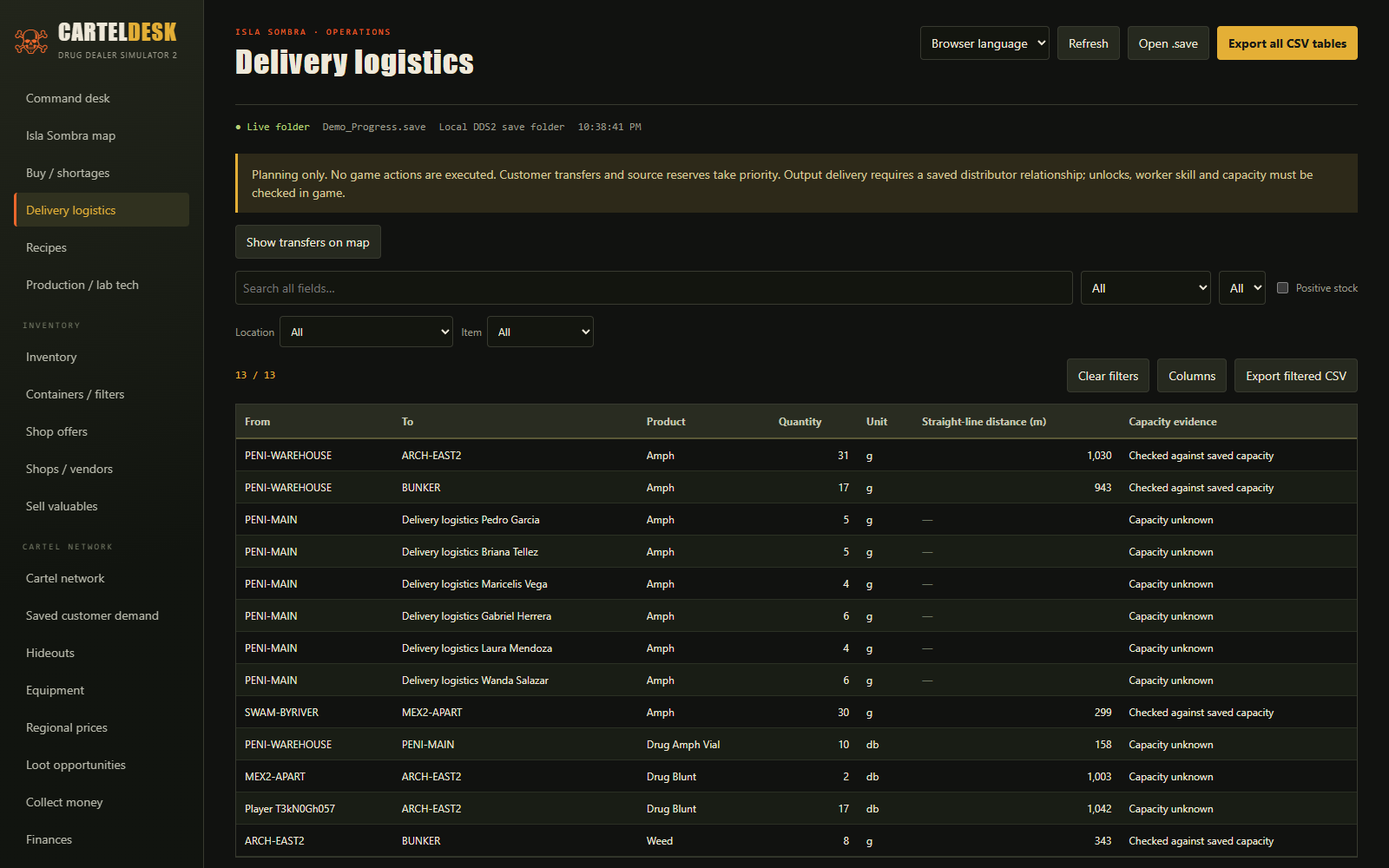
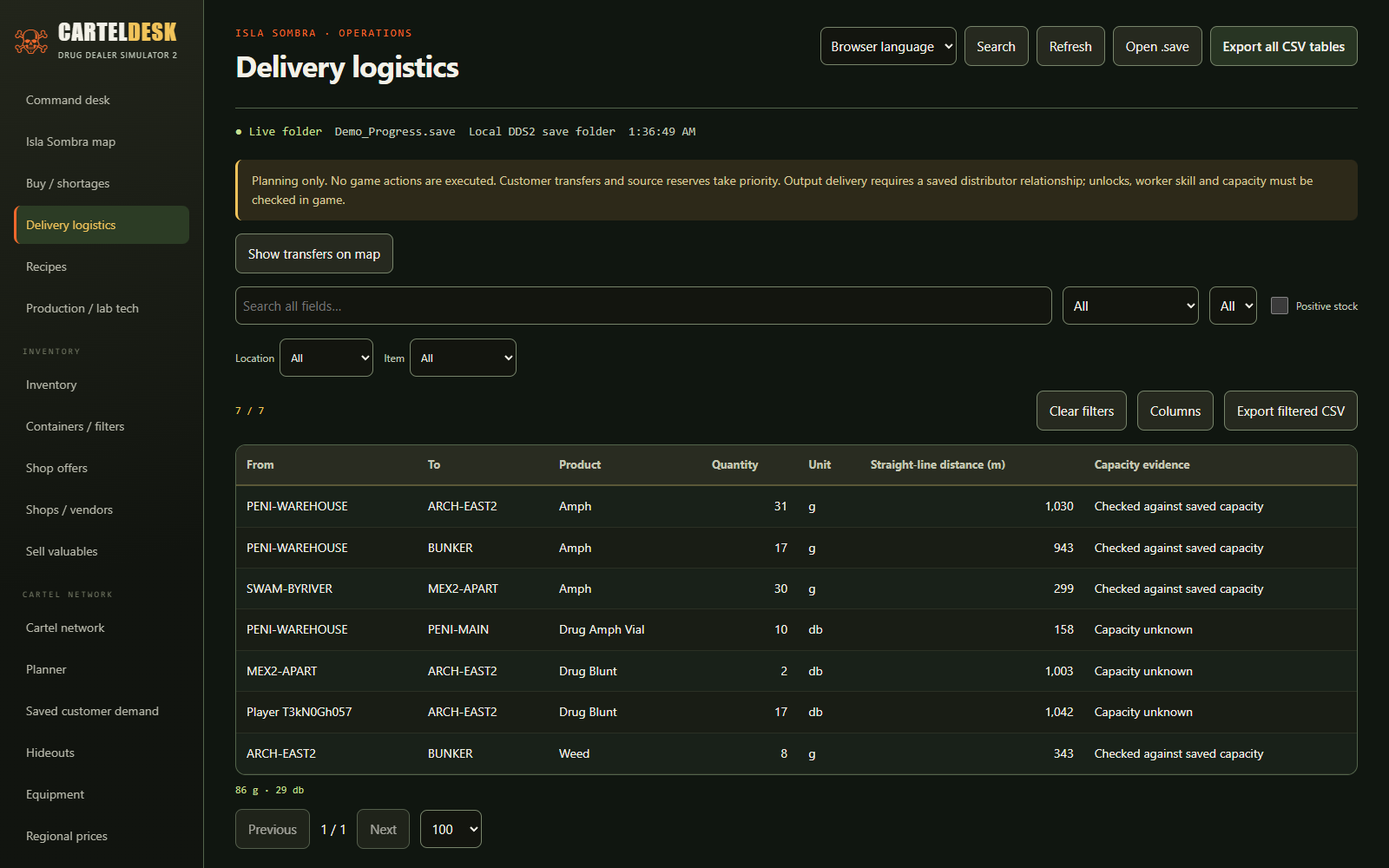
Release DDS2 CartelDesk v1.1.0

diff --git a/README.md b/README.md
@@ -1,130 +1,104 @@
 # DDS2 CartelDesk
 
-![DDS2 CartelDesk — Windows desktop and phone companion](media/cover-wide.png)
+![DDS2 CartelDesk — desktop and phone companion](media/cover-wide.png)
 
-**Your local planning desk for Drug Dealer Simulator 2.** Read your save, check ingredients and equipment, organise stock transfers, and keep the same tools beside you on your phone.
+A free, unofficial Windows planning desk for Drug Dealer Simulator 2. Read your campaign, find ingredients and equipment, organise stock and routes, and open the same tools on your phone.
 
-[**Download for Windows x64**](https://github.com/acsokis/DDS2-CartelDesk/releases/latest) · [Screenshots](#screenshots) · [Media & post kit](#media--post-kit) · [Report an issue](https://github.com/acsokis/DDS2-CartelDesk/issues)
+**[Download the latest Windows release](https://github.com/acsokis/DDS2-CartelDesk/releases/latest)** · [Screenshots and posting material](media/README.md)
 
-## Get started
+Only the latest release is public. This repository distributes the application and media; the application's source code remains private.
 
-1. Download **DDS2-CartelDesk-v1.0.1-Windows-x64.zip** from Releases.
-2. Extract the entire ZIP into a writable folder. Keep its runtime, web and licenses folders together. CartelDesk.exe is the only executable in the top-level folder; DLLs and the backend are grouped in runtime/.
-3. Open **CartelDesk.exe**. The native window starts its own local server.
-4. Use **Start / Stop** to control the server. Closing the window stops its server.
+## Start on Windows
 
-Designed for Windows 11 x64. No installation, command window, Node.js, Python or separate Qt installation is required. The application is a separate planning tool; it does not execute game actions.
+1. Extract the complete Windows x64 ZIP into a writable folder.
+2. Start **CartelDesk.exe**. The window manages its own background service with Start and Stop; closing it also stops its service.
+3. Select your DDS2 cartel folder or choose an individual Progress save. The normal location is under LocalAppData/DrugDealerSimulator2/Saved/SaveGames/Cartels.
+4. Keep the companion open while playing, then refresh after the game finishes saving.
 
-The default save folder is:
+The release root contains the launcher, README, configuration and optional network helper. Qt and native libraries stay in **runtime/**; web assets in **web/**; notices and corresponding Qt source archives in **licenses/**. Keep these folders beside the launcher.
 
-`%LOCALAPPDATA%\DrugDealerSimulator2\Saved\SaveGames\Cartels`
+Game saves and sidecar files are read only. There is no automatic campaign import or overwrite.
 
-CartelDesk finds the latest cartel folder. Choose another folder or .save in Settings. Game saves are **read-only**. Plans and preferences are stored separately in config.json and desktop.ini.
+## Desktop and phone
+
+The C17 service parses and plans locally; the C++ desktop uses Qt Quick navigation and Operations views alongside native Widgets. The localhost web UI and portrait companion use the same saved facts.
+
+For a phone, enable private-LAN companion mode, start the service and select the Wi-Fi IPv4 address in Command Desk. Scan its QR code; click it to open a larger, resizable QR window. The phone and PC must be on the same local network. Windows may require the supplied ENABLE_COMPANION_NETWORK.ps1 helper for its private-network firewall rule.
+
+Responsive layouts keep text sharp as windows resize. Motion is optional and the browser's reduced-motion preference is respected. The phone layout is intended for modern portrait displays, including Galaxy S22 Ultra class screens. A physical phone has not yet been verified.
+
+The browser language is the initial web preference and the system language is the desktop default. English, German, Spanish, French, Hungarian, Polish, Ukrainian, Russian, Czech, Serbian and Croatian are available.
 
 ## What you can do
 
-| Feature | Behaviour |
+| Area | Saved facts and controls |
 | --- | --- |
-| Native desktop | Qt 6.12 Widgets window, managed Start / Stop, searchable tables and settings |
-| Recipes | 187 documented recipes with ingredients, saved production equipment and laboratory workstations |
-| Production planning | Reserve customer demand first, allocate stock once, calculate missing materials and share saved storage capacity |
-| Logistics | Saved distributor assignments, transfers, orders and straight-line distance estimates |
-| Game map | Isla Sombra map with discovery-based fog-of-war, known locations and ingredient lookup |
-| Phone companion | Portrait web interface with the same save data, recipes, map and plans |
-| Export | Filtered CSV and all-table CSV ZIP |
-| Languages | English, German, Spanish, French, Hungarian, Polish, Ukrainian, Russian, Czech, Serbian and Croatian |
+| Operations | Loaded campaign, recorded money in Bolivars (B), own stock, missing requirements and transfers |
+| Inventory | Items, substances, equipment, quantities and distinct installed, collection, player, staff and stored contexts |
+| Cartel Network | Saved hideouts, distributor desks, distributors, dealers, workers and assignments; missing or conflicting links stay unresolved |
+| Recipes | Recorded ingredients and quantities, available equipment alternatives and scaled batches; unknown requirements stay unknown |
+| Planner | Acquire, store, produce and transport; recorded prices, quantities, capacities and straight-line distances |
+| Planning lists | Add, edit quantities, remove, filter, save/load/delete named lists and mark favorites |
+| Map | Game map, persistent legend and counts, stock/source search, layers, Locate, optional routes and reference ranges |
+| External pings | Red triangles, sets, batch additions, multi-select deletion, seconds-based expiry and manual route stops |
+| Save Inspector | Technical IDs, complete tables, parser metadata, search, filters and CSV/ZIP exports |
 
-Desktop language follows the system; web language follows the browser. The language menu overrides automatic selection.
+**Owned inventory and Acquisition sources are separate.** Finding no owned ethanol does not end the supplier search. Recipe requirements show known vendors, storage contexts and coordinates independently of your own quantity. Recorded coverage does not promise unreserved stock. Quantities in incompatible units are never summed.
 
-## Phone companion
+The current planning list is separate from saved named lists and production targets. Add a recipe's ingredients and non-alternative tools to the draft, edit amounts or mark them unknown, then save a named list. Choose alternative equipment individually. Reset clears the draft and planner filters while retaining named lists; each production plan can be removed separately.
 
-Enable **phone companion on LAN** in the native window. Connect your phone to the same Wi-Fi as the PC and open the private-IP **/companion** address shown in the window. The desktop web interface is also available at http://127.0.0.1:8765.
+## Actual game exploration
 
-The phone uses the PC's displayed IP address: localhost on the phone refers to the phone itself. Keep the PC application running. The portrait interface targets modern high-resolution phones such as the Galaxy S22 Ultra.
+Terrain fog uses **FOW_Target.exr from the selected cartel folder**. Its HALF RGB channels contain the exploration mask; constant alpha is ignored. The previous circle, bridge and hull estimate has been removed from both desktop and web.
 
-If Windows blocks incoming connections, run the optional **ENABLE_COMPANION_NETWORK.ps1** as administrator. It adds a private-network, local-subnet rule for port 8765. Public Internet clients are rejected; this is a local-network companion.
+If the file is missing, invalid or unsupported, the terrain stays covered and the interface explains why. The **Fog of war** checkbox can show the terrain without writing any game file. Turning it off does not unlock hidden inventory, recipes or unverified locations. An uploaded Progress save has no accompanying mask unless you select its local cartel folder.
 
-## Fog-of-war and data limits
+**Sharing exploration with LAN companions is optional and off by default.** Localhost and desktop can use the host's mask. A LAN client receives no mask while sharing is disabled. Known saved places still have useful markers. Use Reset map filters and layers if a search or an old layer preference hides results.
 
-Fog-of-war is enabled in the native app, desktop web and phone companion. It reveals neighbourhoods around places explicitly discovered or owned in the save. Undiscovered catalogue markers stay hidden, and a nearby known position does not unlock another marker.
+The three adjacent files serve different purposes: CartelDefaults.sav stores cartel configuration and assignments, CartelLocalData.sav stores local hints and favorite settings, and FOW_Target.exr is an image. They are not the LootPoolDatabase DataTable. The [wiki identifies LootPoolDatabase as a game DataTable source](https://drugdealersim.com/wiki/dds2/clothing-apparel); a campaign's dynamic loot state is different from the build's static loot definitions. Missing chances, quantities and prices stay unknown.
 
-The mask uses saved discovery flags and coordinates; it is **not the game's pixel exploration mask**. Unknown coordinates, prices, recipe yields and equipment compatibility remain unknown. Public shop/loot information describes possible locations, not current stock. Transfer lines are straight-line estimates, not verified road routes. Saved demand does not prove an active order.
+## External pings and manual routes
 
-## Companion QR and server lifecycle
+Open **External map pings**, create a set and choose a lifetime from **1 to 86400 seconds**. Add at the visible map centre, double-click to place a ping, or add up to 100 filtered markers at once. Filter by set, select one or multiple pings and remove them. The workspace supports 30 sets and 200 active pings.
 
-Enable companion access and start the service. In the upper-right companion card on the Command Desk tab, choose the local IP address of the adapter shared with your phone, then scan its QR code. Click the QR card to open a larger window and use the size slider; closing it leaves the card in its original place. The chosen address is remembered. The phone and PC must share a private network, and Windows Firewall must allow companion access. QR codes are generated locally, without sending the URL to an external service.
+Browsers and desktop connected to the **same running LAN host** share additions/removals and expiry with a two-second poll. For a separate host, explicitly export/import the ping JSON packet; imported pings retain only their remaining lifetime. Invalid batches are rejected before the workspace changes.
 
-The backend runs in the background while the desktop is open. Stop ends the owned server; closing the desktop also stops it. A parent-process watcher terminates the server if the desktop is forcibly terminated, even during an incomplete network request.
+Recipe and planner pages can show ping stops on their map. These are manual, straight-line routes and external annotations. They do not claim road navigation, owned inventory, available supplier stock or live player positions.
+
+Encrypted peer sessions, a live WebRTC delta stream and full-save transfer are **not yet connected to the released app UI**. Experimental transfer acceptance and recovery remain pending; this release never sends or replaces a campaign file.
 
 ## Screenshots
 
-These are actual application captures using demonstration save data. Local filesystem paths and adapter addresses have been removed from the presentation. The visible map remains behind fog-of-war.
+These are actual desktop, localhost and portrait captures from a demonstration campaign. Paths and adapter details are removed from the presentation.
 
-**Windows desktop**
+![Command Desk and companion QR](media/screenshots/desktop.png)
 
-![Native DDS2 CartelDesk window with Start and Stop](media/screenshots/desktop.png)
+![Native map with game exploration and visible markers](media/screenshots/desktop-map-detail.png)
 
-**Enlarged companion QR**
+![Web map and legend](media/screenshots/web-map.png)
 
-![Companion QR popup with size control and example LAN address](media/screenshots/desktop-qr.png)
+![External ping sets and manual route stops](media/screenshots/web-map-pings.png)
 
-**Recipes and equipment**
+![Planning list and separate acquisition sources](media/screenshots/web-planner-list.png)
 
-![Recipe ingredients, production equipment and planning controls](media/screenshots/web-recipes.png)
+<img src="media/screenshots/companion-map.png" width="280" alt="Portrait map with game exploration and legend"> <img src="media/screenshots/companion-planner-sources.png" width="280" alt="Portrait ingredient sourcing">
 
-**Discovery-based map**
+## Data, credits and limitations
 
-![Native map showing only saved known places](media/screenshots/desktop-map.png)
+**Map and reference data from drugdealersim.com** — [live wiki](https://drugdealersim.com/).
 
-**About and wiki credits**
+About and posting credit: **Map and data from drugdealersim.com**. Branding credit: **Sourced from drugdealersim.com**.
 
-![About view with wiki attribution and non-affiliation notice](media/screenshots/desktop-about.png)
+CartelDesk is not endorsed by or affiliated with drugdealersim.com, TGS, ByteRunners or Movie Games SA. Underlying game data belongs to the game's developers. Wiki permission covers its map render and curation; contributed guide prose is not bundled. References are an offline snapshot under review: use the live wiki for current values. Currency is Bolivars (B).
 
-**Phone companion**
+The icon is an original CartelDesk mark. Third-party and Qt notices, dynamic-linking information and corresponding source archives accompany the package. The application's own source is private.
 
-<p>
-<img src="media/screenshots/companion-overview.png" width="280" alt="Phone companion overview">
-<img src="media/screenshots/companion-recipes.png" width="280" alt="Phone recipe ingredients and equipment">
-<img src="media/screenshots/companion-map.png" width="280" alt="Phone map with fog-of-war">
-</p>
+By **Gábor Kocsis (acsokis)**: [GitHub](https://github.com/acsokis) · [Instagram](https://www.instagram.com/gabor_carter/) · [LinkedIn](https://www.linkedin.com/in/gabor-web/).
 
-## Media & post kit
+Development uses C17/C++17, an existing save parser, a bounded EXR decoder, responsive web views and local Windows/browser verification. AI-assisted implementation and review are described in About. Unknown game facts are never filled with guessed values.
 
-[Open the media kit](media/README.md) or download **DDS2-CartelDesk-v1.0.1-Media.zip** from [Releases](https://github.com/acsokis/DDS2-CartelDesk/releases/latest).
-
-It contains original screenshots, a 1200 × 675 wide cover, a 1080 × 1080 square cover, and ready-to-copy English posts for **Steam Discussions**, **LinkedIn**, and **Nexus Mods / Vortex**. These are posting drafts; they have not been posted to those platforms.
-
-For Nexus Mods, describe CartelDesk as a standalone utility and use manual download/extraction. The package is not a Vortex game extension or an automatic game-folder deployment mod.
-
-## Credits and source
-
-Created by **Gábor Kocsis (acsokis)** — [GitHub](https://github.com/acsokis) · [Instagram](https://www.instagram.com/gabor_carter/) · [LinkedIn](https://www.linkedin.com/in/gabor-web/).
-
-Built with a **C17 save parser**, **C++17 / Qt 6.12 Widgets**, and local **HTML/CSS/JavaScript** interfaces. AI coding assistance, Windows builds and regression checks supported development. Unofficial DDS2 companion; not affiliated with the game's creators.
-
-This repository publishes release information and media. **The application's C/C++ source and development files are not published.** The download includes the browser runtime assets needed by its web interfaces. GitHub's automatic “Source code” archives contain this public documentation repository, not the native application source.
-
-Qt is dynamically linked. The licenses folder includes its original license texts, SBOM and the corresponding unmodified Qt 6.12.0 source archive. That archive contains third-party Qt source, not CartelDesk's private source. Keep it and THIRD_PARTY_NOTICES.txt with the distribution.
-
-Game reference data: [Isla Sombra map](https://drugdealersim.com/map), [recipes](https://drugdealersim.com/wiki/dds2/crafting-recipes), [items](https://drugdealersim.com/wiki/dds2/all-items-catalog), [equipment](https://drugdealersim.com/wiki/dds2/hideout-equipment).
-
-## Validation
-
-37 automated Windows checks passed on Windows x64, including parser compatibility, stock allocation, capacity, read-only saves, Unicode, private-LAN access, 11 languages, recipe planning, fog-of-war markers, CSV ZIP integrity, and the real Qt Start / Stop lifecycle, normal/forced desktop closure during a partial HTTP request, and QR decoding from the actual card and enlarged images. Desktop web and portrait companion screenshots were also checked for JavaScript errors and horizontal overflow. Physical-phone touch testing has not been performed.
+The maintained design catalog contains **131 unique active acceptance points** plus shared constraints, after deduplicating historical requests. That count is a scope catalog, not a claim that every experimental multiplayer or recovery requirement is complete. Hardware-specific FPS, physical-phone, assistive-technology and full progression coverage remain pending.
 
 ## Magyar gyorsindítás
 
-Töltsd le a Windows ZIP-et, csomagold ki teljesen, és indítsd a **CartelDesk.exe** fájlt. A Start / Stop gomb vezérli a háttérszervert; az ablak bezárása leállítja. A program a valódi DDS2 mentési mappát keresi, és a játékmentést kizárólag olvassa. Telefonon ugyanazon a Wi-Fi-n az ablakban megjelenő /companion címet nyisd meg. A felületen magyar nyelv is választható.
-
-## Wiki attribution and updates
-
-[Map and reference data from drugdealersim.com](https://drugdealersim.com/)
-
-Map and data from drugdealersim.com
-
-Unofficial companion. Not endorsed by or affiliated with drugdealersim.com, TGS, ByteRunners or Movie Games SA.
-Reference data checked 2026-10-06; visit the live wiki for current data during its ongoing audit. Currency: Bolivars (B).
-
-The wiki operator permits bundling and screenshots of its map render and curation with attribution. This permission does not license the underlying game developer rights or contributed guide prose. No Steam-imported guide text is bundled. The reference snapshot is due for review on 2026-10-20; this is a planned maintenance date, not an automatic synchronization. If the wiki operator requests removal of its materials, those materials will be removed from the distribution.
-
-Official DDS2 icon: sourced from the [game’s Steam community page](https://steamcommunity.com/app/1708850/), used as the Windows application/browser icon and in the QR centre. QR codes use high error correction; both the displayed card and enlarged output are checked by decoding. The artwork belongs to its respective rights holders. Wiki permission covers its map and curation, not game artwork or underlying game IP; no endorsement is implied.
+Csomagold ki a teljes ZIP-et, és indítsd a **CartelDesk.exe** fájlt. A Start/Stop és az ablak bezárása kezeli a saját háttérszervert. Válaszd ki a kartell mappáját: a térképköd a **FOW_Target.exr** fájlból jön, kikapcsolható, LAN-megosztása külön opcionális. Telefonhoz engedélyezd a companion módot, válaszd a Wi-Fi IP-címet, és olvasd be a QR-kódot. A piros pingek azonos LAN-host alatt közösek; másik hosthoz JSON export/import van. A játékmentést a program kizárólag olvassa.

diff --git a/media/README.md b/media/README.md
@@ -1,53 +1,40 @@
-# DDS2 CartelDesk media kit
+# DDS2 CartelDesk media kit — v1.1.0
 
-[Download the application](https://github.com/acsokis/DDS2-CartelDesk/releases/latest) · [Project page](https://github.com/acsokis/DDS2-CartelDesk)
+[Download the latest Windows release](https://github.com/acsokis/DDS2-CartelDesk/releases/latest) · [Project](https://github.com/acsokis/DDS2-CartelDesk)
 
 ## Images
 
-| File | Size / purpose |
+| Image | Use |
 | --- | --- |
-| [cover-wide.png](cover-wide.png) | 1200 × 675; wide post, README cover or thumbnail |
-| [cover-square.png](cover-square.png) | 1080 × 1080; square social post |
-| [Desktop](screenshots/desktop.png) | 1240 × 850; native Start / Stop window |
-| [Companion QR](screenshots/desktop-qr.png) | Enlarged native QR dialog with size slider; example address |
-| [Inventory](screenshots/desktop-inventory.png) | 1240 × 850; native table |
-| [Native recipes](screenshots/desktop-recipes.png) | 1240 × 850; ingredients and equipment |
-| [Native About](screenshots/desktop-about.png) | 1240 × 850; credits and wiki attribution |
-| [Native map](screenshots/desktop-map.png) | 1240 × 850; fog-of-war |
-| [Desktop web recipes](screenshots/web-recipes.png) | 1600 × 1000; recipe catalogue |
-| [Web logistics](screenshots/web-logistics.png) | 1600 × 1000; stock-transfer planning |
-| [Web About](screenshots/web-about.png) | 1600 × 1000; build description and source credits |
-| [Phone overview](screenshots/companion-overview.png) | 1075 × 2330; portrait companion |
-| [Phone recipes](screenshots/companion-recipes.png) | 1075 × 2330; recipe detail |
-| [Phone map](screenshots/companion-map.png) | 1075 × 2330; discovery-based map |
-| [Phone About](screenshots/companion-about.png) | 1075 × 2330; companion source credits |
+| [Wide cover](cover-wide.png) | 1200 × 675 social post or README |
+| [Square cover](cover-square.png) | 1080 × 1080 social post |
+| [Desktop](screenshots/desktop.png) | Actual native command desk, Start / Stop and QR |
+| [Native map](screenshots/desktop-map-detail.png) | FOW_Target.exr terrain, markers and legend |
+| [Native ping controls](screenshots/desktop-ping-dialog.png) | Sets, lifetime, multi-selection, import / export |
+| [Web map and pings](screenshots/web-map-pings.png) | Red triangles, route stops and visible legend |
+| [Planner lists](screenshots/web-planner-list.png) | Save, load, favorites, quantities and removal |
+| [Acquisition sources](screenshots/web-planner-sources.png) | Ownership and purchase locations separately |
+| [Native recipes](screenshots/desktop-recipes.png) | Ingredients and production equipment |
+| [Phone map](screenshots/companion-map.png) | Portrait companion with game exploration mask |
+| [Phone recipes](screenshots/companion-recipes.png) | Recipe requirements on a portrait screen |
+| [About](screenshots/desktop-about.png) | Author and source credits |
 
-All screenshots are actual application captures using demonstration data. Public previews omit local filesystem paths and private adapter addresses. Map captures keep fog-of-war enabled. The cover images combine those screenshots with descriptive text; no game UI or functionality was invented.
+Screenshots capture the running application with an isolated demonstration profile. Covers compose these captures and descriptive text. Local save paths and private adapter addresses are omitted. The map uses the read-only game FOW_Target.exr mask. Missing masks keep the terrain covered; fog can be switched off in the view. Exploration sharing is optional and off by default.
 
+This update includes planner add / remove / save / favorites / reset, independent owned-inventory and acquisition-source filters, persistent map legend and empty states, cached native terrain and debounced filters. External red triangle pings have sets, multi-selection, 1–86400 second lifetimes and manual route stops. Devices using the same LAN host share pings; separate hosts use explicit JSON export / import.
 
 ## Ready-to-copy posts
 
-- [Steam Discussions](posts/steam-forum.txt): paste the title and body into the DDS2 community discussion editor. Attach the wide cover and recipe/map screenshots if the editor permits attachments.
-- [LinkedIn](posts/linkedin.txt): use the square or wide cover, optionally adding desktop and companion captures as a carousel.
-- [Nexus Mods / Vortex](posts/nexus-description.txt): standalone-utility description, installation and limitations. Upload screenshots to the image gallery and the Windows ZIP as a manual-download file. No Vortex extension or automatic deployment support is claimed.
+- [Steam Discussions](posts/steam-forum.txt): title and body, with map / recipe captures.
+- [LinkedIn](posts/linkedin.txt): short project description and cover or screenshot carousel.
+- [Nexus Mods / Vortex](posts/nexus-description.txt): standalone utility description and manual installation. No Vortex deployment extension is included.
 
-These are drafts for the author to post. No Steam, LinkedIn or Nexus post has been published automatically. Keep the game-only context, read-only save statement, unknown-data limitations, author credit and project download link when reposting. Do not present CartelDesk as an official DDS2 product.
+These drafts are for the author to post. Keep the read-only save statement, unknown-data limitations, credits and download link. Secure peer sessions, application live deltas, full-save transfer UI / recovery and production signing are pending. The private catalog has 131 unique requirements from 190 source points; this does not claim all requirements are complete. Physical-phone and game-session FPS checks are not yet complete.
 
 Author: Gábor Kocsis (acsokis). [GitHub](https://github.com/acsokis) · [Instagram](https://www.instagram.com/gabor_carter/) · [LinkedIn](https://www.linkedin.com/in/gabor-web/).
-
-## Wiki attribution and updates
 
 [Map and reference data from drugdealersim.com](https://drugdealersim.com/)
 
 Map and data from drugdealersim.com
 
-Unofficial companion. Not endorsed by or affiliated with drugdealersim.com, TGS, ByteRunners or Movie Games SA.
-Reference data checked 2026-10-06; visit the live wiki for current data during its ongoing audit. Currency: Bolivars (B).
-
-When sharing a post, keep both the wiki credit/link and the non-affiliation statement. Wiki permission covers its map render and curation, not underlying game IP or contributed guide prose.
-
-Media refreshed: 2026-10-06. All captures show the current application. Covers include the wiki credit directly on the image; keep attribution when publishing.
-
-Current release: v1.0.1. Native screenshots show the upper-right Command Desk companion card, with its selectable IP, URL and clickable QR. The QR popup uses a documented example LAN address, not a working public demonstration endpoint. The Windows package has one top-level CartelDesk.exe and a runtime folder containing its Qt dependencies and backend. The owned server stops when the desktop closes or is terminated.
-
-Official DDS2 icon: sourced from the [game’s Steam community page](https://steamcommunity.com/app/1708850/), used as the Windows application/browser icon and in the QR centre. QR codes use high error correction; both the displayed card and enlarged output are checked by decoding. The artwork belongs to its respective rights holders. Wiki permission covers its map and curation, not game artwork or underlying game IP; no endorsement is implied.
+Unofficial companion. Not endorsed by or affiliated with drugdealersim.com, TGS, ByteRunners or Movie Games SA. The wiki's permission covers its map render and curation, not underlying game IP or contributed guide prose. Currency: Bolivars (B). The wiki is being audited; consult the live site for current figures. Reference re-sync is planned for 2026-10-20. Material will be removed if the wiki requests it.

diff --git a/RELEASE_NOTES.md b/RELEASE_NOTES.md
@@ -1,33 +1,11 @@
-# DDS2 CartelDesk v1.0.1
+# DDS2 CartelDesk v1.1.0
 
-Windows x64 update: native Qt 6.12 Widgets desktop, desktop web and portrait phone companion.
+- Actual FOW_Target.exr RGB exploration in native desktop, localhost and optional LAN companion sharing. Circle/hull discovery estimates removed; invalid or missing masks fail closed. Fog has its own view toggle.
+- Visible map legend, counts, empty state and reset. Ingredient search considers recorded stock and acquisition sources. Saved locations and reviewed map references use distinct marker shapes.
+- Map movement preserves marker DOM. Native map/background and source terms are cached; typed filters coalesce for 120 ms and number formatters are reused. Resizable native and modern portrait layouts retain sharp text.
+- External red triangle pings: sets, bulk add, multi-remove, 1–86400-second lifetime, common-host LAN polling and explicit cross-host JSON export/import. Manual route stops remain separate from verified supply facts.
+- Current/named planning lists, quantities, favorites, filtering, reset and separate production plan removal; recipe inputs/equipment with independent owned/acquisition evidence.
+- C17/C++17 retained with Qt 6.12 navigation and Operations views, native controls, Start/Stop, owned-process cleanup and companion QR/IP selector. One root launcher; libraries in runtime/.
+- Updated 11-language labels, README, actual screenshots and Steam/LinkedIn/Nexus media. Map and reference data from drugdealersim.com. No affiliation or endorsement.
 
-- Upper-right Command Desk companion card: QR with selectable LAN IP, enlarged dialog and size slider; remembered address.
-- One top-level CartelDesk.exe; Qt dependencies and backend grouped in runtime/.
-- Parent-process watcher ends orphan servers even during incomplete network requests.
-- README, screenshots, covers and posting drafts refreshed.
-- Managed Start / Stop and read-only DDS2 save loading.
-- 187 documented in-game recipes, production equipment and stock/capacity planning.
-- Discovery-based fog-of-war on native and web maps.
-- Saved logistics and distributor data; CSV and ZIP exports.
-- Eleven languages with system/browser defaults.
-- Credits, build description and author profiles.
-
-Download **DDS2-CartelDesk-v1.0.1-Windows-x64.zip**, extract all files, then run **CartelDesk.exe**. The separate **Media.zip** contains screenshots, social covers and Steam/LinkedIn/Nexus posting drafts. **SHA256SUMS.txt** provides download checksums.
-
-37 Windows automated checks passed; portrait browser captures had no JavaScript errors or horizontal overflow. Physical-phone touch testing has not been performed. Unknown data stays unknown; map exploration is based on saved known places, not the game's pixel mask. Transfer lines are straight-line estimates.
-
-The public repository contains documentation/media only. Native application source remains private. The Qt source archive in the Windows ZIP is third-party corresponding source required for redistribution.
-
-## Wiki attribution and updates
-
-[Map and reference data from drugdealersim.com](https://drugdealersim.com/)
-
-Map and data from drugdealersim.com
-
-Unofficial companion. Not endorsed by or affiliated with drugdealersim.com, TGS, ByteRunners or Movie Games SA.
-Reference data checked 2026-10-06; visit the live wiki for current data during its ongoing audit. Currency: Bolivars (B).
-
-Attribution maintenance update: wiki credit and live-site links are now shown across native/web interfaces, branding, documentation and post drafts. The wiki permission is limited to its map render and curation. No contributed guide prose is bundled.
-
-Official DDS2 icon: sourced from the [game’s Steam community page](https://steamcommunity.com/app/1708850/), used as the Windows application/browser icon and in the QR centre. QR codes use high error correction; both the displayed card and enlarged output are checked by decoding. The artwork belongs to its respective rights holders. Wiki permission covers its map and curation, not game artwork or underlying game IP; no endorsement is implied.
+The 131 unique acceptance points are the current scope catalog. WebRTC peer-session UI/wire integration, full-save transfer acceptance/recovery, physical-phone and hardware-specific FPS verification remain pending. The released UI does not transfer or replace a campaign. Source code remains private; only the latest release is public.
